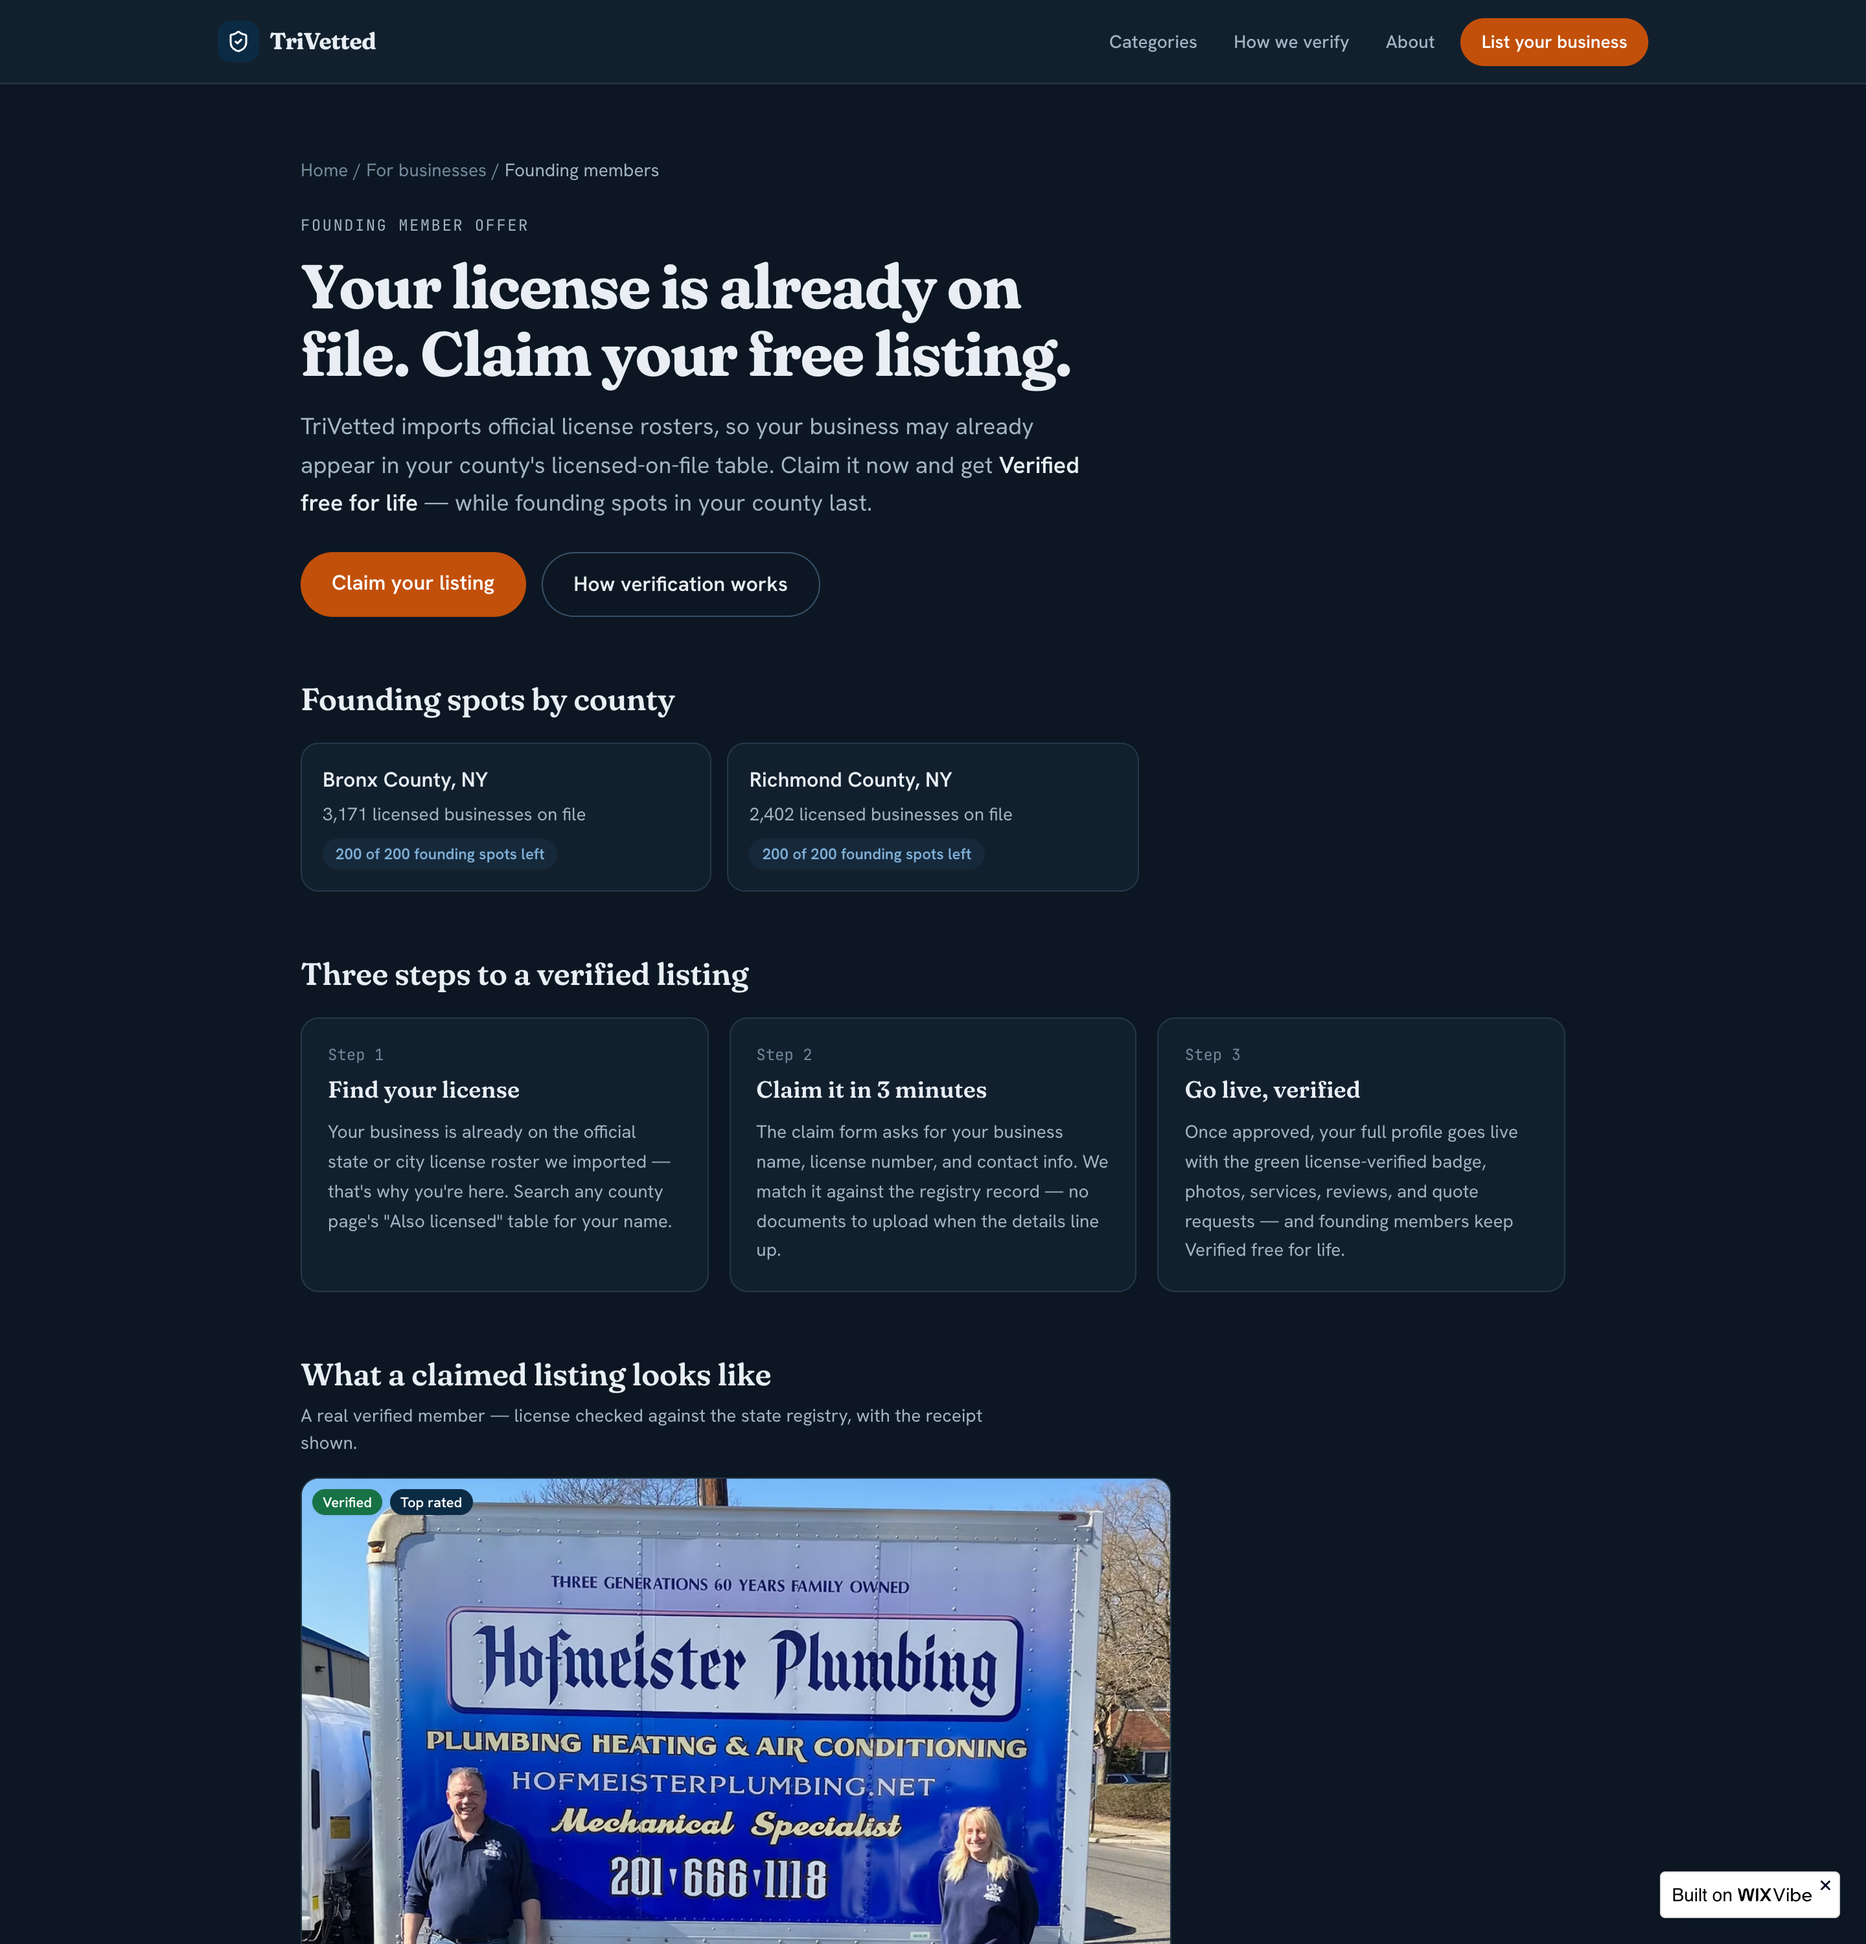
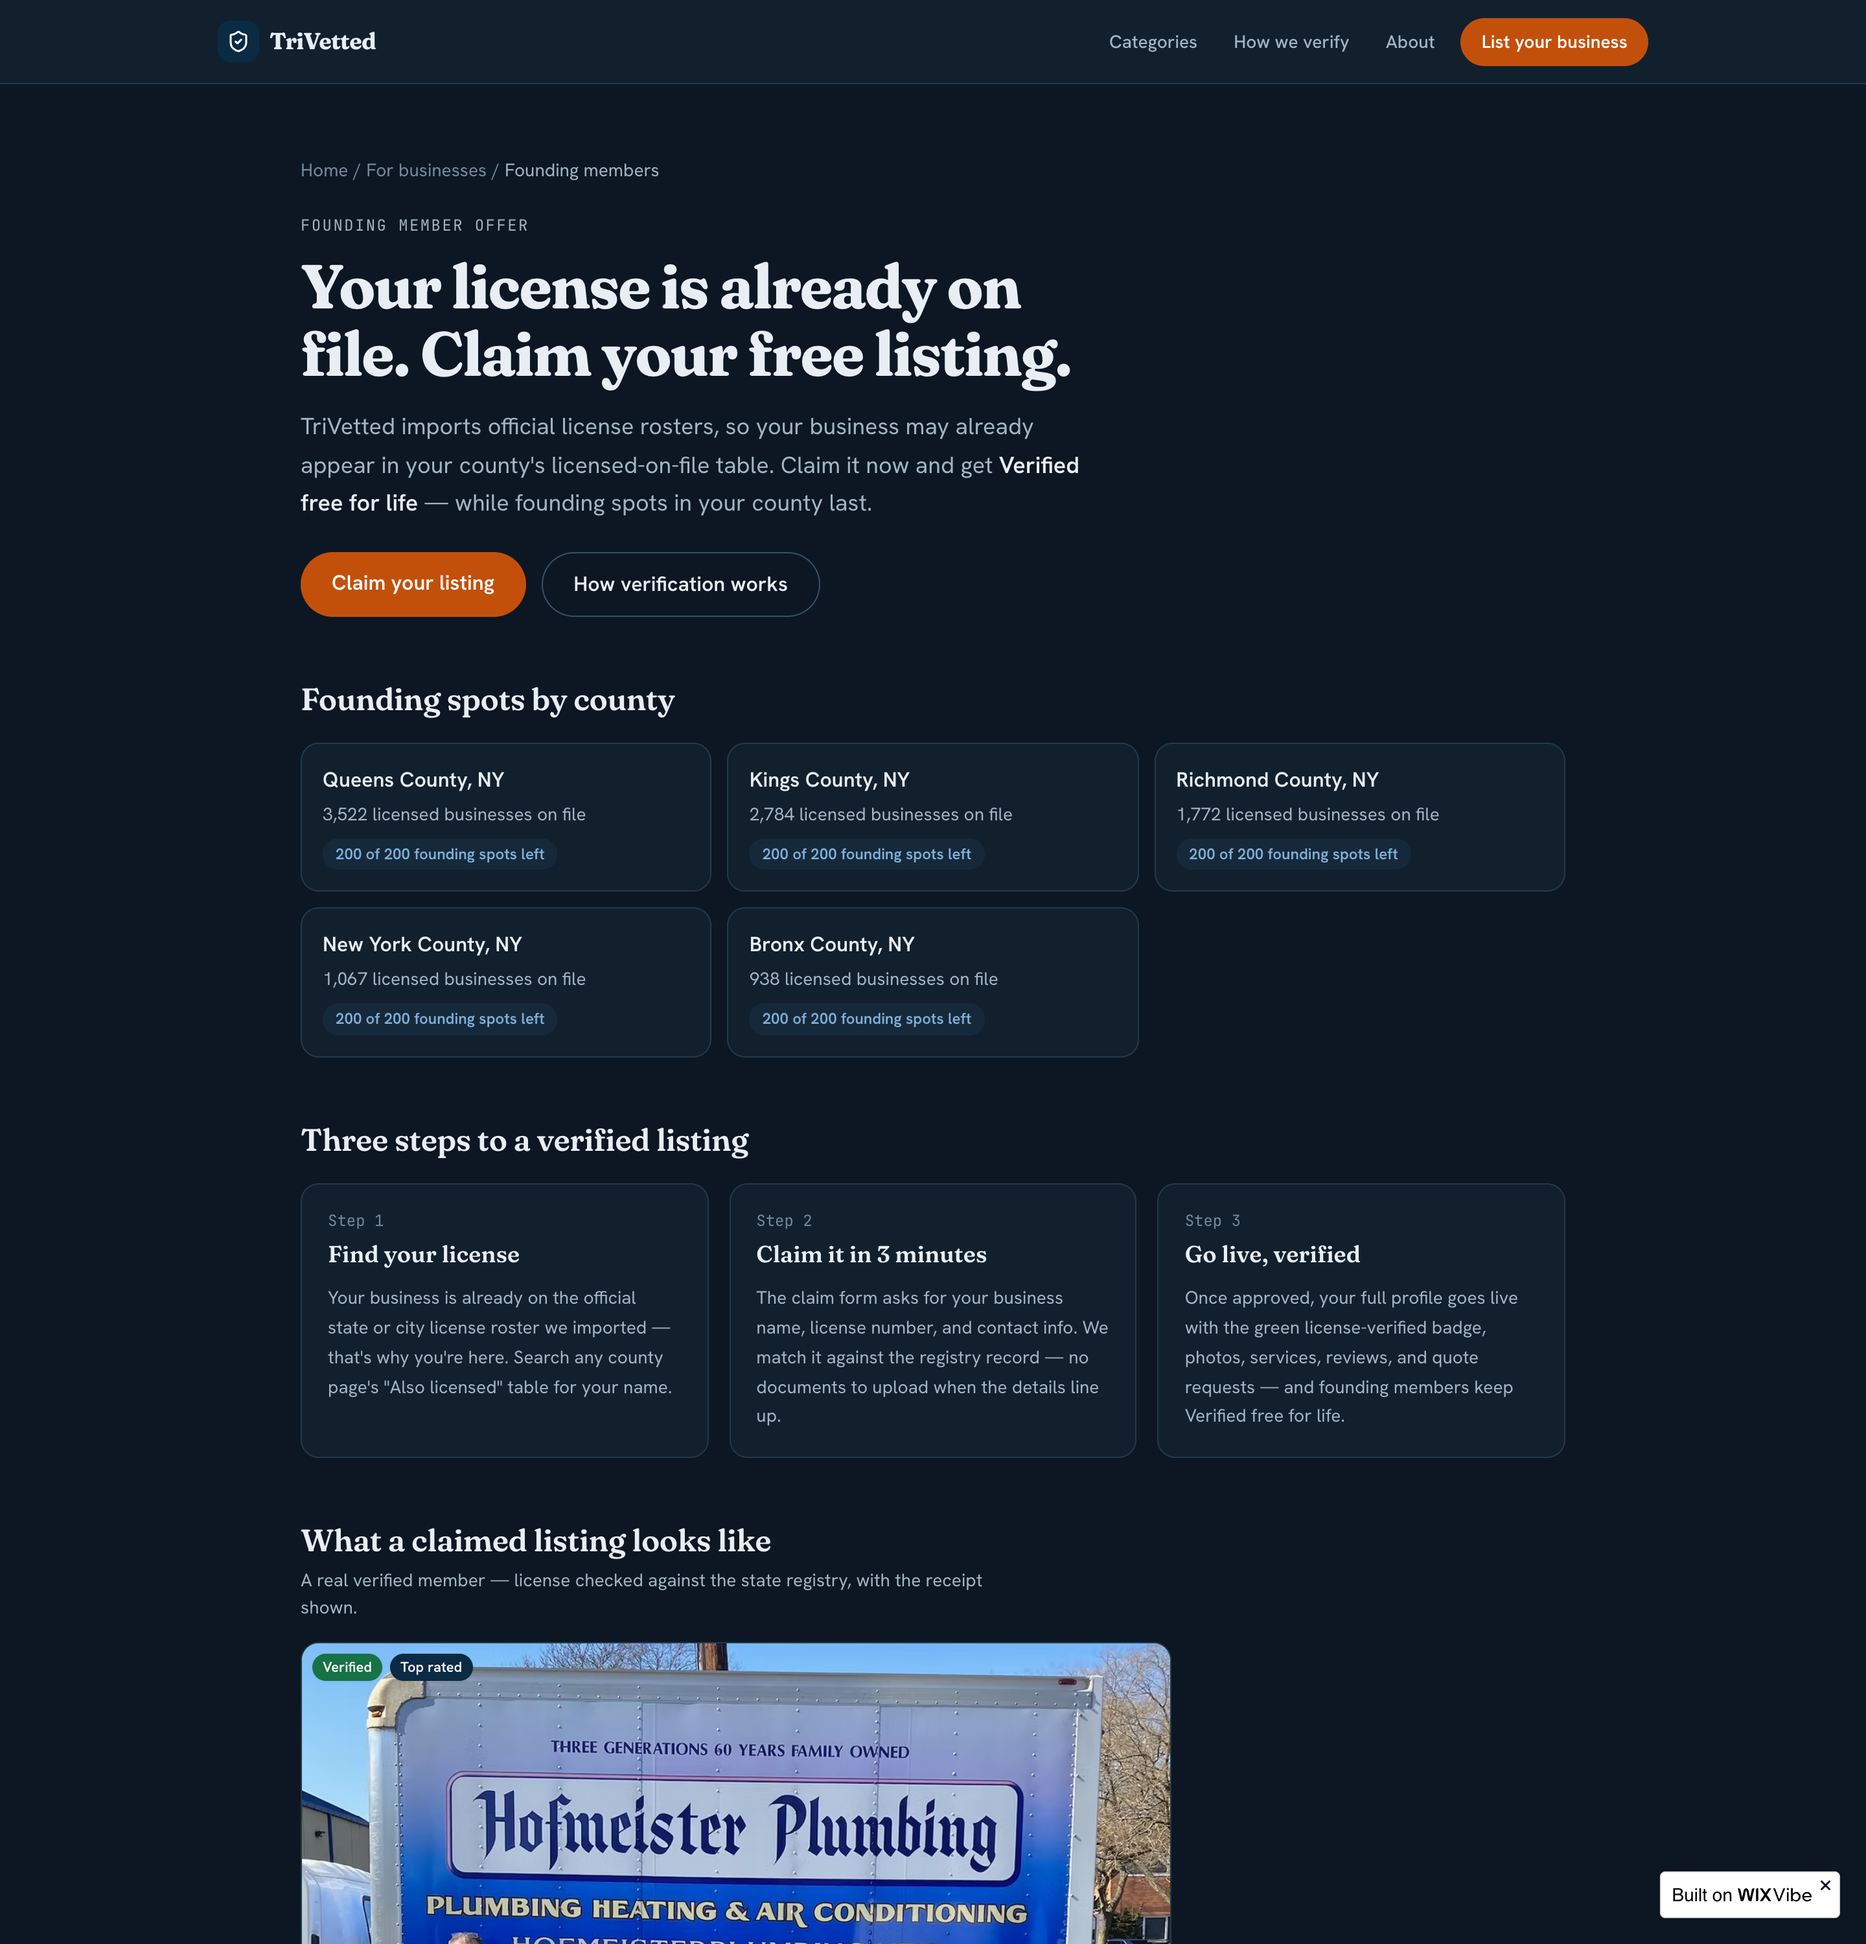
C: publish evidence — screenshots, smoke log, registry counts

diff --git a/docs/PUBLISH-LOG.md b/docs/PUBLISH-LOG.md
@@ -37,3 +37,11 @@ cross the 3-listing threshold or business profiles publish; log each batch here.
     list cards, project-card grid, curated heroEligible hero pool.
 
 **Smoke 2026-08-26 22:36 UTC:** PASS — all 16 routes 200
+
+**Smoke 2026-08-26 22:46 UTC:** PASS — all 16 routes 200
+  - C0 + Batch C publish: 5 new indexable URLs (/events /deals /guides /awards
+    /founding-members — within the 50/week budget; registered rows add ZERO URLs).
+    Registry live: 10,083 registered rows (NYC HIC w7w3-xahh all five boroughs 9,584 +
+    Richmond RE offices 499; the acd4-wkax mislabel was purged same-day). Crawl 289 pages
+    0 broken. New collections: events, offers, awards, subscribers (+DEMO rows behind
+    preview).
